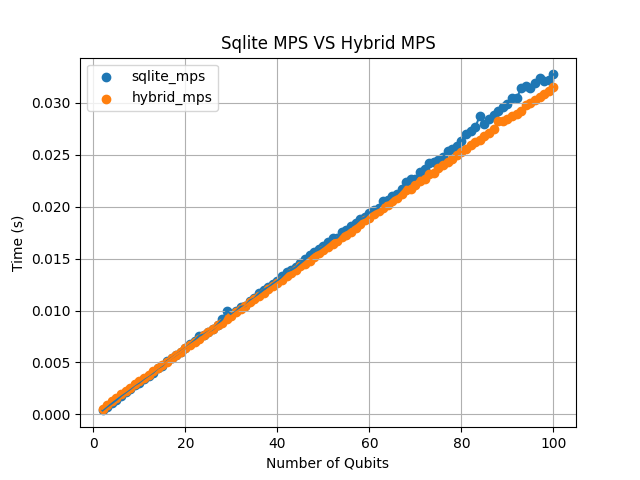
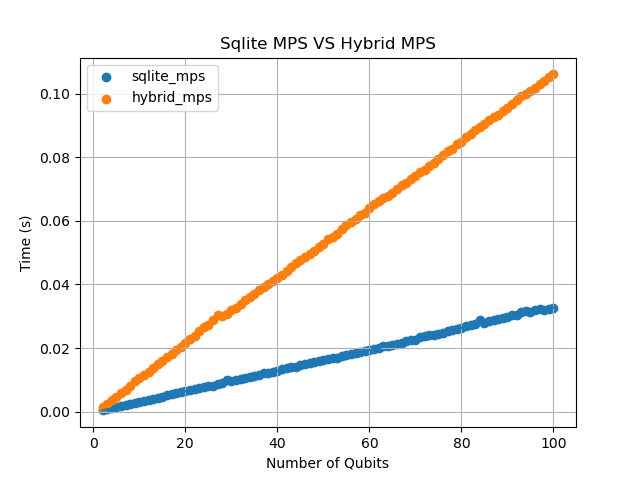
small update

diff --git a/sqlite_mps.py b/sqlite_mps.py
@@ -2,6 +2,7 @@ import sqlite3
 import gates as gates
 import numpy as np
 import json
+import pandas as pd
 from timeit import default_timer as timer
 from svd_udf_py import SvdAggregator
 CPP=False
@@ -43,10 +44,13 @@ class SQLITE_MPS:
                               self.conn.execute(f"INSERT INTO t{x} (i, j,k,l, re,im) VALUES ({idx[0]},{idx[1]},{idx[2]},{idx[3]} , {z.real}, {z.imag})")
       
       def apply_one_qbit_gate(self,qbit:int,gate:str):
+            tic=timer()
             res=self.conn.execute(f"""SELECT qb.i as i, gate.j as j, qb.k as k, SUM(gate.re * qb.re - gate.im * qb.im) AS re, SUM(gate.re * qb.im + gate.im * qb.re) AS im 
                                  FROM t{qbit} as qb JOIN  t{gate} gate ON qb.j= gate.i GROUP BY qb.i,gate.j,qb.k ORDER BY i,j,k""").fetchall()
             self.conn.execute(f"DELETE  FROM   t{qbit};")
             self.conn.executemany(f"INSERT INTO t{qbit} (i,j,k,re,im) VALUES (?,?,?,?,?)",res)
+            toc= timer()
+            print(toc-tic)
 
       def apply_two_qbit_gate(self,first_qbit:int,gate:str):
             #contraction
@@ -61,10 +65,10 @@ class SQLITE_MPS:
             #clear tables
             self.conn.execute(f"DELETE  FROM   t{first_qbit};")
             self.conn.execute(f"DELETE  FROM   t{first_qbit+1};")
-            l=self.conn.execute(f"SELECT left from tShape WHERE qbit={first_qbit}").fetchone()[0]
-            r=self.conn.execute(f"SELECT right from tShape WHERE qbit={first_qbit+1}").fetchone()[0]
-            #svd
-            cursor = self.conn.execute(f"SELECT svd_agg(i, j, k, l, re, im, {l}, {r}) FROM tTemp")
+            cursor = self.conn.execute(f"""
+                  SELECT svd_agg(i,j,k,l,re,im, (SELECT "left"  FROM tShape WHERE qbit = {first_qbit}),(SELECT "right" FROM tShape WHERE qbit = {first_qbit+1}))
+                  FROM tTemp
+                  """)
             result_json = json.loads(cursor.fetchone()[0])
             u_re=np.array(result_json["U_re"])
             u_im=np.array(result_json["U_im"])
@@ -94,6 +98,21 @@ class SQLITE_MPS:
             res=self.conn.execute(f"SELECT * FROM tTemp").fetchall()
             print(res)
 
+      def save_state_tables(self):
+            out=[]
+            for i in range(self.num_qbits):
+                  df = pd.read_sql_query(f"SELECT * FROM t{i};", self.conn)
+                  print(f"t{i}")
+                  out.append(df)
+            return out
+      
+      def cleanup(self):
+            for i in range(self.num_qbits):
+                  self.conn.execute(f"DROP TABLE [IF EXISTS] t{i};")
+            self.conn.execute("DROP TABLE [IF EXISTS] tShape;")
+            self.conn.execute("DROP TABLE [IF EXISTS] tOut;")
+            self.conn.execute("DROP TABLE [IF EXISTS] tTemp;")
+
       @staticmethod
       def run_circuit_json(data) -> 'SQLITE_MPS':
             num_qubits = data["number_of_qubits"]
@@ -102,12 +121,14 @@ class SQLITE_MPS:
             sim=SQLITE_MPS(num_qubits,gates)
             for x in gates_data:
                   tic=timer()
+                  sim.save_state_tables()
                   if len(x['qubits'])==1:
                         sim.apply_one_qbit_gate(x['qubits'][0],x['gate'])
                   elif len(x['qubits'])==2:
                         sim.apply_two_qbit_gate(x['qubits'][0],x['gate'])
                   toc=timer()
                   sim.times.append(toc-tic)
+            sim.save_state_tables()
             return sim
       
       # def get_statevector(self):
@@ -141,3 +162,8 @@ if __name__ == "__main__":
       toc=timer()
       x=t.get_statevector_np()
       # print(toc-tic)
+      print(t.get_statevector_np())
+
+      for g in t.gates:
+            df = pd.read_sql_query(f"SELECT * FROM t{g};", t.conn)
+            print(f"t{g}")

diff --git a/old/mps.py b/old/mps.py
@@ -65,6 +65,8 @@ class MPS:
 
     def apply_two_qubit(self,qubit_one:int,qubit_two:int,gate):
         """Apply two qubit gate"""
+        tic=timer()
+
         if qubit_one >= len(self.tensors) or qubit_two>=len(self.tensors):
             raise ValueError("qubit number too large")
 
@@ -80,12 +82,7 @@ class MPS:
             print(t2.shape)
 
         #perform gate contraction
-        tic=timer()
         t=self._two_contraction(t,gate)
-        toc=timer()
-        if self.use_timer:
-            time=toc-tic
-            self.times.append(time)
         #perform SVD
         t=t.reshape(l*2, r*2)
         U, S, Vh = np.linalg.svd(t, full_matrices=False)
@@ -105,6 +102,11 @@ class MPS:
 
         self.tensors[qubit_one]=U
         self.tensors[qubit_two]=Vh
+
+        toc=timer()
+        if self.use_timer:
+            time=toc-tic
+            self.times.append(time)
 
     @staticmethod
     def statevector_to_mps(state_vector: list):

diff --git a/old/performace_analyzer.py b/old/performace_analyzer.py
@@ -38,12 +38,14 @@ def generate_ghz_gates(nr_qbits):
 
 NR_ITERS=50
 def run_multiple_ghz(max_qbits,simulator_method:Simulator=MpsSimulator,db:abstractDB=None, tracker=get_time_medians):
+    print("Running multiple ghz state circuits")
     medians=[]
     for num_qbits in range(2,max_qbits+1):
         gates=generate_ghz_gates(num_qbits)
         times=tracker(NR_ITERS,num_qbits,gates,simulator=simulator_method,db=db)
         med=np.mean(times)
         medians.append(med)
+    print("Finished running circuits")
     return medians
 
 def save_data_to_file(data,filename:str):
@@ -52,7 +54,7 @@ def save_data_to_file(data,filename:str):
     with open("./data/"+filename, 'w') as f:
         json.dump(data, f)
 
-NR_QBITS=100
+NR_QBITS=20
 if __name__ == "__main__":
     # print(get_memory_medians(50,10,generate_ghz_gates(10),MpsSimulator))
     np.set_printoptions(suppress=True)

diff --git a/analyze_performance.py b/analyze_performance.py
@@ -39,9 +39,10 @@ def save_data_to_file(data,filename:str):
     
 
 if __name__ =="__main__":
-    file = open("./data/ghz_100_50_median.json")
+    file = open("./data/ghz_20_100_sum.json")
     data=json.load(file)
-    file=open("./data/ghz_hybrid_100_50_median.json")
+    file=open("./data/ghz_hybrid_20_50_median.json")
     data2=json.load(file)
-    # med=get_medians(data)
+    med=get_medians(data)
+    data["times"]=med
     plot_multiple_lines(data["max_qubits"],[list(data["times"].values()),list(data2["times"].values())],["sqlite_mps","hybrid_mps"],"Number of Qubits","Time (s)","Sqlite MPS VS Hybrid MPS")

diff --git a/plotting.py b/plotting.py
@@ -18,8 +18,7 @@ def plot_statevector(MPS: np.ndarray):
     plt.show()
 
 def plot_multiple_lines(num_qubits,ys,labels, x_axis_label:str='X-axis',y_axis_label:str='Y-axis',title:str='Multiple Lines Connecting Scatter Points'):
-    if len(ys) != len(labels):
-        raise ValueError("The number of lines (rows in ys) must match the number of labels.")
+
     x=list(range(2,num_qubits+1))
     for y, label in zip(ys, labels):
         if len(x) != len(y):
